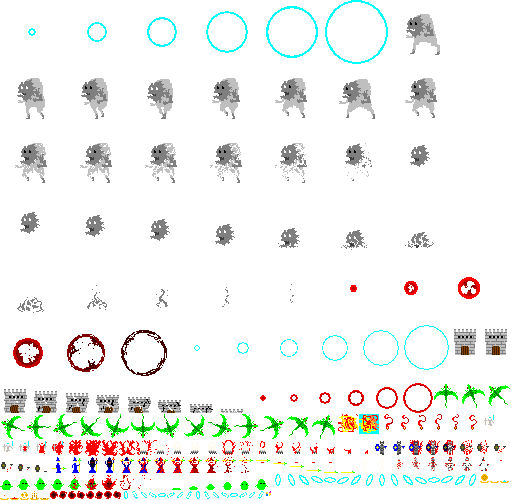
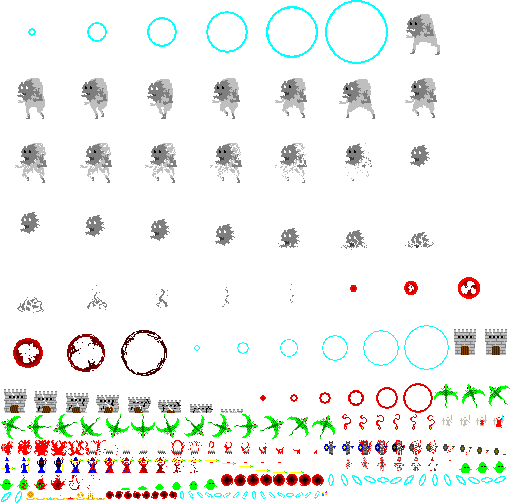
Big fireball: import the real 12px sprite
Found in the browser check: fireball.big came from big_fireball.txt
(1.bmp, 2.bmp), a 20px block of noise that showed as squares at
fireball level 4+. The pack's big fireball is fireball_15.txt
(fireball_big0000..0007, 12px, 8 frames), which matches the size the
spec first named. Atlas and anims.js regenerated.

Spec edits: §3.3 fireball.big source and size. Resolves decision D-2.
Expectations changed: atlas size pin for fireball.big 20x20 -> 12x12
(the old pin held the wrong asset).
Gates: npm run gate green (210 tests)

diff --git a/src/sim/anims.js b/src/sim/anims.js
@@ -10,7 +10,7 @@ export const ANIMS = {
   'explosion.laserbig': { ticks: [6, 6, 6, 6, 6, 6] },
   'explosion.small': { ticks: [6, 6, 6, 6, 6, 6] },
   'fireball.anim': { ticks: [6, 6, 6, 6, 6, 6, 6, 6] },
-  'fireball.big': { ticks: [6, 6] },
+  'fireball.big': { ticks: [6, 6, 6, 6, 6, 6, 6, 6] },
   'ghost.burn': { ticks: [2, 2, 2, 2, 2, 2, 2, 2, 2, 2, 2] },
   'ghost.die': { ticks: [6, 6, 6, 6, 6, 6, 6, 6, 6] },
   'ghost.ghost': { ticks: [6, 6] },

diff --git a/docs/decisions.md b/docs/decisions.md
@@ -5,7 +5,6 @@ Only what is still open. A row is deleted once its answer is folded into the spe
 | Id | Question | Recommendation | Status |
 |---|---|---|---|
 | D-1 | Enemy facing: horizontal flip when moving left, or no flip as in the original? | Flip; drop it if it looks wrong in play | owner to judge in play |
-| D-2 | Big fireball sprite from fireball level 4, or only a bigger radius? | Switch sprite; revert if it reads as a different weapon | owner to judge in play |
 | D-3 | Minion carriers under the tower | Stretch goal, visual only, after the demo plays well | deferred |
 | D-4 | Late game is too forgiving: once the build is full, every level-up offers only Repair (+25 HP), so a run that survives 2:30 rarely loses before the golem. | Stop offering Repair when the build is full unless tower HP < 50%, and steepen `xpToNext` past level 20; measure with `tools/measure.mjs` (T-012) | open, orchestrator to decide in T-012 |
 | D-5 | The golem (150 px/s) is slower than the tethered tower (200 px/s): a player can drag the tower away in a straight line forever. | Give the golem a rule, not a number: it speeds up by 10 px/s every 10 s after 5:00 (*unmeasured*). Wait for a play-test before changing it | owner to judge in play |

diff --git a/docs/demo-spec.md b/docs/demo-spec.md
@@ -125,7 +125,7 @@ Serve with any static server (`python -m http.server` or `npx serve`). The only 
 | `ghost.knight`, `ghost.burn`, `ghost.ghost`, `ghost.die` | `ghostnight/ghost_knight.txt`, `ghostnight/ghost_knight_burn.txt`, `ghostnight/ghost.txt`, `ghostnight/ghost_burn.txt` | burn = death-to-ghost transition; `ghost.die` = the ghost's own death |
 | `golem.walk`, `golem.die` | `golem/golem.txt`, `golem/golem_death.txt` | 64px. `golem/golem.txt` lists `golem_death0000..0006`, as the original does. `die` unused in the demo (golem is unkillable) but imported for later |
 | `fireball.anim` | `fireball/fireball.txt` | 8px, 8-frame looping animation |
-| `fireball.big` | `fireball/big_fireball.txt` | 20px, 2 frames |
+| `fireball.big` | `fireball/fireball_15.txt` | 12px, 8-frame looping animation. (`fireball/big_fireball.txt` lists `1.bmp 2.bmp`, a 20px block that is not a fireball; it is not imported.) |
 | `laser.dir` | `fireball/laser.txt` | 8px, **16 directions** |
 | `laser.bigdir` | `fireball/laser_15.txt` | 12px, 16 directions |
 | `castle` | `castle/castle0000.bmp` | 30px. Tower and mini tower |
